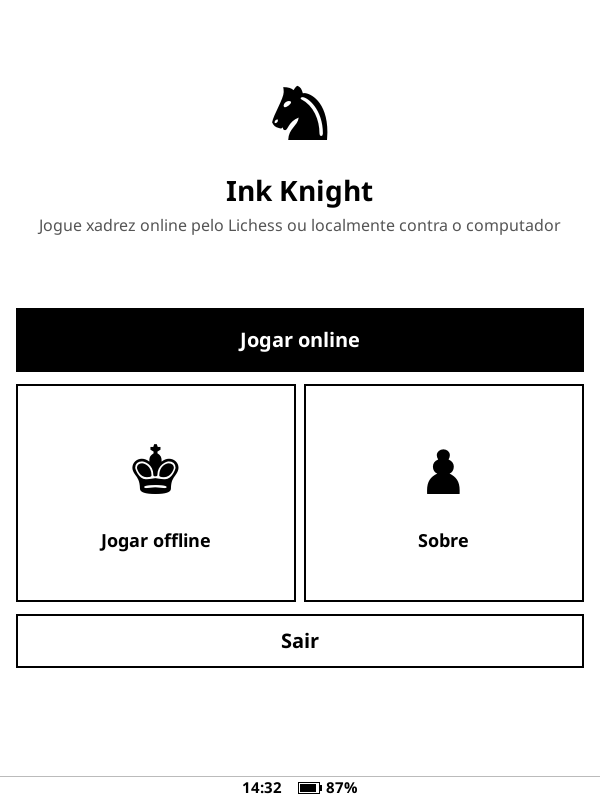
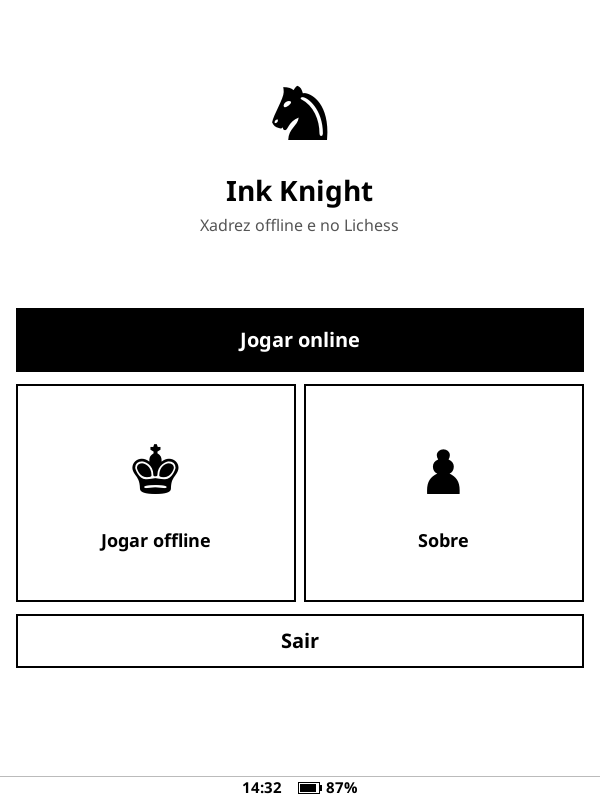
refactor: update application description and branding to emphasize offline chess capabilities and integration with Lichess; includes changes to README, metadata, and localization files for consistency

diff --git a/tools/make_brand_art.py b/tools/make_brand_art.py
@@ -14,8 +14,8 @@ BLACK, WHITE, FOLD = 0, 255, 170
 ICON_SIZE = 1024
 SUPERSAMPLE = 3
 KNIGHT = "♞"
-TAGLINE = "A Lichess client for KOReader."
-DETAILS = ["Play live and by correspondence, solve puzzles", "and review your games on e-ink.", "Not an official Lichess product."]
+TAGLINE = "Chess on e-ink, offline and on Lichess."
+DETAILS = ["An engine, puzzles, lessons and a clock with no internet,", "and live and correspondence games on Lichess.", "A KOReader plugin, not an official Lichess product."]
 # The sheet of paper, in icon coordinates.
 PAGE_LEFT, PAGE_TOP, PAGE_RIGHT, PAGE_BOTTOM, EAR = 222, 130, 802, 894, 170
 
@@ -72,7 +72,8 @@ def draw_header(width, height, fonts, icon, layout):
     image = Image.new("L", (width * k, height * k), BLACK)
     middle, screen_height, offset, text = layout["middle"], layout["screen_height"], layout["offset"], layout["text"]
     halftone(image, middle * k, height // 2 * k, round(layout["halftone"] * k), 26 * k)
-    place_screen(image, "games", ((middle - offset) * k, (height // 2 + 8) * k), screen_height * k, 6)
+    # The first screen, with both ways to play, beside a game, as the plugin is both offline and on Lichess.
+    place_screen(image, "start", ((middle - offset) * k, (height // 2 + 8) * k), screen_height * k, 6)
     place_screen(image, "game", ((middle + offset) * k, (height // 2 - 8) * k), screen_height * k, -5)
     margin = 58
     icon_size = round(112 * text)
@@ -108,7 +109,7 @@ def draw_screensaver(fonts, icon):
     image = Image.new("L", (w * k, h * k), BLACK)
     cx, cy = w // 2, 572
     halftone(image, cx * k, cy * k, 290 * k, 26 * k)
-    place_screen(image, "games", ((cx - 100) * k, (cy + 8) * k), 330 * k, 6)
+    place_screen(image, "start", ((cx - 100) * k, (cy + 8) * k), 330 * k, 6)
     place_screen(image, "game", ((cx + 100) * k, (cy - 8) * k), 330 * k, -5)
     icon_size = 150
     small = icon.resize((icon_size * k, icon_size * k), Image.LANCZOS)

diff --git a/CHANGELOG.md b/CHANGELOG.md
@@ -2,6 +2,7 @@
 
 ## [Unreleased]
 
+- The plugin presents itself as chess on e-ink, offline and on Lichess, instead of a Lichess client: in its description, the line under its name on the first screen, the About page, the README, the banner, the social preview and the sleep screen cover, which now show the first screen beside a game.
 - Analysis of a game played without internet, against the engine or between two people: once it is over, Analyze goes through the moves with the engine of the plugin, showing its progress and with a way to cancel, and opens the review with the clear mistakes and blunders marked, the better move named and the evaluation of each move, as in the review of a Lichess game. Against the engine only your moves are looked at. The engine is small, so only clear mistakes are marked.
 - Puzzles by opening, in the puzzles menu: the openings Lichess has puzzles of, most puzzles first, each family with its variations, and the last ones you opened on top. Like a theme, each keeps its puzzles on the device to solve without internet.
 - Chess960: without internet, in the offline menu, from a position drawn or typed by its number, against the engine or between two people; and on Lichess, with Play Chess960 beside the rated option, for finding an opponent, challenges and the computer, accepting challenges, correspondence games kept offline and reviewing past games, with its rating in the profile. Castling is tapped on the rook.

diff --git a/docs/design.md b/docs/design.md
@@ -1,6 +1,6 @@
 # Ink Knight: design and tools
 
-A Lichess client inside KOReader, built for e-ink. `ink_knight` is the plugin identifier. The research and the lessons from earlier clients are in `docs/research/chess-clients.md` and `docs/research/lichess-api.md`, in the `kindle` project.
+Chess inside KOReader, built for e-ink: offline, with an engine, puzzles, lessons and clocks, and on Lichess with the reader's account. `ink_knight` is the plugin identifier. The research and the lessons from earlier clients are in `docs/research/chess-clients.md` and `docs/research/lichess-api.md`, in the `kindle` project.
 
 ## What is in and out
 

diff --git a/README_pt.md b/README_pt.md
@@ -1,9 +1,9 @@
 <p align="center">
-  <img src="docs/brand/banner.png" alt="Ink Knight: um cliente do Lichess para o KOReader">
+  <img src="docs/brand/banner.png" alt="Ink Knight: xadrez em e-ink, offline e no Lichess">
 </p>
 
 <p align="center">
-  <strong>Um cliente do Lichess para o KOReader. Jogue ao vivo e por correspondência, resolva táticas e reveja suas partidas em e-ink.</strong>
+  <strong>Xadrez em e-ink, offline e no Lichess. Motor, táticas, lições e relógio sem internet, e partidas ao vivo e por correspondência com a sua conta do Lichess, tudo dentro do KOReader.</strong>
 </p>
 
 <p align="center">

diff --git a/README.md b/README.md
@@ -1,9 +1,9 @@
 <p align="center">
-  <img src="docs/brand/banner.png" alt="Ink Knight: a Lichess client for KOReader">
+  <img src="docs/brand/banner.png" alt="Ink Knight: chess on e-ink, offline and on Lichess">
 </p>
 
 <p align="center">
-  <strong>A Lichess client for KOReader. Play live and by correspondence, solve puzzles and review your games on e-ink.</strong>
+  <strong>Chess on e-ink, offline and on Lichess. An engine, puzzles, lessons and a clock with no internet, and live and correspondence games with your Lichess account, all inside KOReader.</strong>
 </p>
 
 <p align="center">
